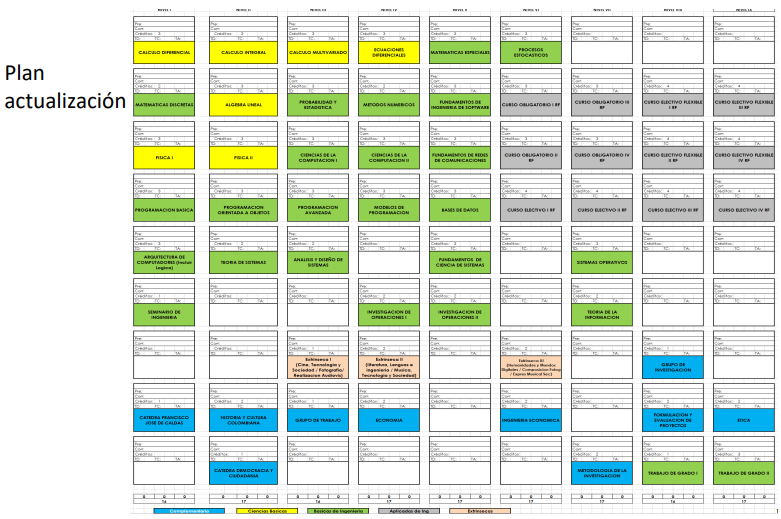
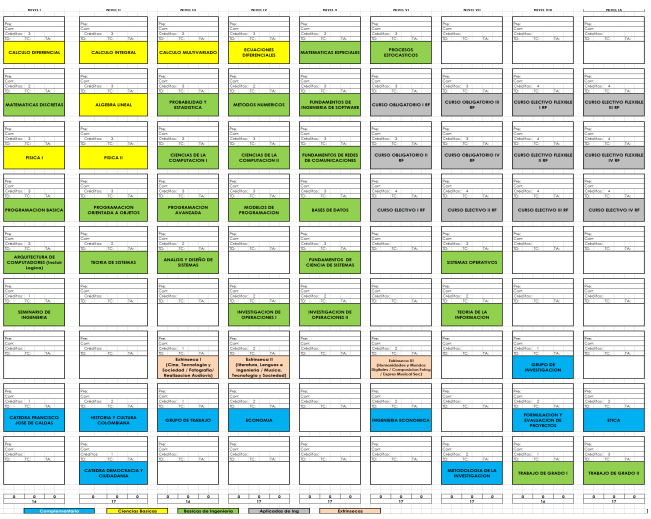
Se añaden las imagenes restantes, y se agrega el blog de Actualizacion de doble programa y articulacion con el posgrado

diff --git a/landing/src/components/InvitationModal.jsx b/landing/src/components/InvitationModal.jsx
@@ -1,13 +1,10 @@
 import { motion, AnimatePresence } from "framer-motion";
 import { CheckArrowIcon } from "../assets/icons/CheckArrowIcon";
 import { CloseIcon } from "../assets/icons/CloseIcon";
-import { TailcastLogo } from "../assets/logos/TailcastLogo";
-import { useEffect } from "react";
 
-export const InvitationModal = ({ setIsOpen, materias }) => {
-
+export const InvitationModal = ({ setIsOpen, materias, enfoque }) => {
   if (!materias || materias.length === 0) {
-    return null;  // No renderiza el modal si no hay materias
+    return null; // No renderiza el modal si no hay materias
   }
 
   const numColumns = 5; // Número de columnas para las materias
@@ -21,54 +18,42 @@ export const InvitationModal = ({ setIsOpen, materias }) => {
   return (
     <AnimatePresence>
       <motion.div
-        initial={{ opacity: 0, zIndex: 50 }}
-        animate={{ opacity: 1, zIndex: 50 }}
+        initial={{ opacity: 0 }}
+        animate={{ opacity: 1 }}
         transition={{ duration: 0.1 }}
         exit={{ opacity: 0 }}
+        className="md:w-screen md:h-screen w-full h-full bg-bgDarkTransparentDarker fixed top-0 left-0 flex z-50 justify-center items-center"
+        onClick={() => setIsOpen(false)}
       >
         <div
-          className="w-full h-full bg-bgDarkTransparentDarker fixed top-0 left-0 flex z-50 justify-center items-center"
-          onClick={() => setIsOpen(false)}
+          className="md:w-screen w-full sm:h-auto sm:w-3/4 lg:w-[1000px] xl:w-[1100px] sm:rounded-2xl bg-bgDarkTransparentLighter main-border-gray-darker py-12 px-8 sm:px-16 backdrop-blur-xl mx-auto z-50"
+          onClick={(e) => e.stopPropagation()}
         >
-          <div
-            className="w-full h-screen sm:h-auto sm:w-3/4 md:w-3/5 lg:w-[1000px] xl:w-[1100px] sm:rounded-2xl bg-bgDarkTransparentLighter main-border-gray-darker py-12 px-8 sm:px-16 backdrop-blur-xl fixed sm:mb-8  mx-auto z-50"
-            onClick={(e) => e.stopPropagation()}
-          >
-            <div className="flex relative">
-              <div className="w-full flex items-center flex-col justify-center pt-24 sm:pt-0">
-                <div className="flex inline lg:hidden justify-start items-center grow basis-0 mb-8 pr-6">
-                  <div className="text-white mr-2 text-8xl">
-                    <TailcastLogo />
-                  </div>
-                  <div className="text-white font-['Inter'] font-bold text-3xl">
-                    Tailcast
-                  </div>
-                </div>
-    
-                <h3 className="mb-7 text-2xl text-primaryText font-bold leading-snug text-center">
-                  Eje de formacion seleccionado 
-                </h3>
-    
-                <div className="flex justify-between gap-4">
-                  {columns.map((column, colIndex) => (
-                    <ul key={colIndex} className="mb-6 text-primaryText mt-12">
-                      {column.map((materia, index) => (
-                        <li key={index} className="mb-4 flex">
-                          <CheckArrowIcon />
-                          <span>{materia}</span>
-                        </li>
-                      ))}
-                    </ul>
-                  ))}
-                </div>
+          <div className="flex relative">
+            <div className="w-full flex items-center flex-col justify-center pt-24 sm:pt-0">
+              <h3 className="mb-7 text-2xl text-primaryText font-bold leading-snug text-center">
+                Eje de formación seleccionado: <span className="text-secondaryColor">{enfoque}</span>
+              </h3>
+
+              <div className="flex justify-between gap-4">
+                {columns.map((column, colIndex) => (
+                  <ul key={colIndex} className="mb-6 text-primaryText mt-12">
+                    {column.map((materia, index) => (
+                      <li key={index} className="mb-4 flex">
+                        <CheckArrowIcon />
+                        <span>{materia}</span>
+                      </li>
+                    ))}
+                  </ul>
+                ))}
               </div>
-    
-              <div
-                className="fixed top-6 right-6 z-50 w-5 h-5 cursor-pointer text-[rgb(255,255,255,0.7)] hover:text-white transition"
-                onClick={() => setIsOpen(false)}
-              >
-                <CloseIcon />
-              </div>
+            </div>
+
+            <div
+              className="md:relative sm:relative absolute top-6 right-6 w-5 h-5 cursor-pointer text-[rgb(255,255,255,0.7)] hover:text-white transition"
+              onClick={() => setIsOpen(false)}
+            >
+              <CloseIcon />
             </div>
           </div>
         </div>
@@ -76,5 +61,3 @@ export const InvitationModal = ({ setIsOpen, materias }) => {
     </AnimatePresence>
   );
 }
-
-  

diff --git a/landing/src/components/Actualizacion.jsx b/landing/src/components/Actualizacion.jsx
@@ -3,23 +3,14 @@ import { motion } from "framer-motion";
 import blog1 from "../assets/images/blog1.png";
 import blog2 from "../assets/images/blog2.png";
 import blog3 from "../assets/images/blog3.png";
+import planactualizacion from "../assets/images/planactualizacion.png"
 
 const blogData = [
   {
-    title: "AI and Machine Learning",
+    title: "Plan Actualizacion",
     subtitle:
-      "Discover insights and trends in the world of data analytics. Delve into how AI and machine learning are revolutionizing industries",
-    image: blog1.src,
-  },
-  {
-    title: "Data-Driven Analytics",
-    subtitle: "Explore the impact of AI and ML on data analytics.",
-    image: blog2.src,
-  },
-  {
-    title: "Real-Time Data Processing",
-    subtitle: "Learn about the importance of processing real-time.",
-    image: blog3.src,
+      "El título obtenido seguirá siendo “Ingeniero de Sistemas”, y los ejes de formación permitirán al estudiante fortalecer un área específica de su formación profesional y articular conocimientos de distintas áreas según sus intereses.",
+    image: planactualizacion.src,
   },
 ];
 
@@ -35,12 +26,11 @@ export const Actualizacion = () => (
       >
         <div className="container px-4 mb-20">
           <div className="max-w-2xl text-center lg:text-left mb-16 mx-auto lg:ml-0 lg:mr-0">
-            <span className="block-subtitle">Our Blog</span>
             <h2 className="mt-6 mb-6 text-4xl lg:text-5xl font-bold font-heading text-primaryText">
-              Latest Insights
+              Actualizaciones
             </h2>
             <p className="mb-6 text-secondaryText">
-              Stay updated with the latest trends and insights in our industry.
+              Aca podras ver detalladamente las actualizaciones propuestas por el programa
             </p>
           </div>
           <div className="flex 2xl:w-[1200px] lg:w-[1000px] xl:w-[1150px] flex-wrap -mx-4 items-start h-auto sm:h-[30rem] lg:h-[31rem]  xl:h-[35rem]">
@@ -50,7 +40,7 @@ export const Actualizacion = () => (
                   <img
                     src={blogData[0].image}
                     alt={blogData[0].title}
-                    className="rounded-3xl mb-6  w-full"
+                    className="rounded-3xl mb-6  w-2/3"
                     aria-label={blogData[0].title}
                   />
                   <h3 className="mb-4 text-2xl font-bold font-heading text-primaryText">
@@ -61,31 +51,6 @@ export const Actualizacion = () => (
                   </p>
                 </div>
               </a>
-            </div>
-            <div className="hidden sm:flex mx-auto lg:ml-0 lg:mr-0 w-11/12 sm:w-4/5 lg:w-1/2 xl:w-2/5 px-4  flex-col justify-between h-full">
-              {blogData.slice(1).map((post, index) => (
-                <a
-                  href="/blog/article"
-                  key={`${post.title}-${index}`}
-                  className=" flex  gap-4 p-10 bg-bgDark3 rounded-3xl  min-h-1/2 h-1/2 max-h-[47%]
-                  hover:bg-bgDark3Hover transition cursor-pointer"
-                >
-                  <div className="pt-2">
-                    <h3 className="mb-4 text-xl font-bold font-heading text-primaryText">
-                      {post.title}
-                    </h3>
-                    <p className="text-secondaryText leading-loose">
-                      {post.subtitle}
-                    </p>
-                  </div>
-                  <img
-                    src={post.image}
-                    alt={post.title}
-                    className="rounded-3xl mb-6 w-[9rem] h-[9rem] lg:w-auto lg:h-auto xl:w-full"
-                    aria-label={post.title}
-                  />
-                </a>
-              ))}
             </div>
           </div>
         </div>

diff --git a/landing/src/components/Motivos.jsx b/landing/src/components/Motivos.jsx
@@ -4,6 +4,10 @@ import feature1 from "../assets/images/feature1.jpg";
 import feature2 from "../assets/images/feature2.jpg";
 import feature3 from "../assets/images/feature3.jpg";
 import feature4 from "../assets/images/feature4.jpg";
+import crecimientopersonal from "../assets/images/crecimientopersonal.png";
+import habilidadespracticas from "../assets/images/habilidadespracticas.png";
+import oportunidadeslaborales from "../assets/images/oportunidadeslaborales.png";
+import areasconocimiento from "../assets/images/areasconocimiento.png";
 import { CheckArrowIcon } from "../assets/icons/CheckArrowIcon";
 
 export const Motivos = () => {
@@ -53,36 +57,36 @@ export const Motivos = () => {
             <div className="mb-8 lg:mb-0 w-full sm:w-1/2 px-2 lg:px-0">
               <div className="mb-4 py-3 pl-3 pr-2 rounded">
                 <img
-                  src={feature1.src}
-                  alt="Feature image 1"
+                  src={crecimientopersonal.src}
+                  alt="Crecimiento personal"
                   className="rounded-xl  main-border-gray mx-auto sm:mx-unset"
-                  aria-label="Feature image 1"
+                  aria-label="Crecimiento personal"
                 />
               </div>
               <div className="py-3 pl-3 pr-2 rounded ">
                 <img
-                  src={feature2.src}
-                  alt="Feature image 2"
+                  src={habilidadespracticas.src}
+                  alt="Habilidades practicas"
                   className="rounded-xl  main-border-gray mx-auto sm:mx-unset"
-                  aria-label="Feature image 2"
+                  aria-label="Habilidades practicas"
                 />
               </div>
             </div>
             <div className="w-1/2 lg:mt-20  pt-12 lg:pt-0 px-2 hidden sm:inline-block">
               <div className="mb-4 py-3 pl-3 pr-2 rounded-lg ">
                 <img
-                  src={feature3.src}
-                  alt="Feature image 3"
+                  src={oportunidadeslaborales.src}
+                  alt="Oportunidades laborales"
                   className="rounded-xl  main-border-gray"
-                  aria-label="Feature image 3"
+                  aria-label="Oportunidades laborales"
                 />
               </div>
               <div className="py-3 pl-3 pr-2 rounded-lg ">
                 <img
-                  src={feature4.src}
-                  alt="Feature image 4"
+                  src={areasconocimiento.src}
+                  alt="Areas conocimiento"
                   className="rounded-xl  main-border-gray"
-                  aria-label="Feature image 4"
+                  aria-label="Areas conocimiento"
                 />
               </div>
             </div>

diff --git a/landing/src/components/Ejes.jsx b/landing/src/components/Ejes.jsx
@@ -3,10 +3,10 @@ import { useState } from "react";
 
 import { InvitationModal } from "./InvitationModal";
 
-
-export const FeaturesDiagonal = () => {
+export const Ejes = () => {
   const [isModalOpen, setIsModalOpen] = useState(false);
   const [materias, setMaterias] = useState([]);
+  const [enfoque, setEnfoque] = useState("");
 
   // Datos de las materias para cada enfoque
   const materiasPorEnfoque = {
@@ -66,7 +66,7 @@ export const FeaturesDiagonal = () => {
       "Gestión de la Innovación en TI",
       "Gestión de la Calidad en Proyectos TI",
     ],
-    "Cibernética e Inteligencia Artificial (Ciencia de Sistemas)": [
+    "Cibernética e Inteligencia Artificial": [
       "Inteligencia Artificial I",
       "Inteligencia Artificial II",
       "Cibernética I",
@@ -87,13 +87,13 @@ export const FeaturesDiagonal = () => {
   };
 
   const handleButtonClick = (enfoque) => {
-    console.log(isModalOpen, "JASKDJALKSD NMMS", enfoque);
     setIsModalOpen((prev) => {
       console.log(prev);
       return prev;
     });
     setIsModalOpen(true);
     setMaterias(materiasPorEnfoque[enfoque]);
+    setEnfoque(enfoque);
   };
 
   return (
@@ -174,16 +174,16 @@ export const FeaturesDiagonal = () => {
                 aria-label="Live demo"
                 onClick={() =>
                   handleButtonClick(
-                    "Cibernética e Inteligencia Artificial (Ciencia de Sistemas)"
+                    "Cibernética e Inteligencia Artificial"
                   )
                 }
               >
-                Cibernética e Inteligencia Artificial (Ciencia de Sistemas)
+                Cibernética e Inteligencia Artificial
               </button>
             </div>
 
             {isModalOpen && (
-              <InvitationModal setIsOpen={setIsModalOpen} materias={materias} />
+              <InvitationModal setIsOpen={setIsModalOpen} materias={materias} enfoque={enfoque} />
             )}
           </div>
         </div>

diff --git a/landing/src/components/Motivos2.jsx b/landing/src/components/Motivos2.jsx
@@ -3,6 +3,8 @@ import React from "react";
 
 import feature5 from "../assets/images/feature5.jpg";
 import feature6 from "../assets/images/feature6.jpg";
+import certificado from "../assets/images/certificado.png";
+import planeacion from "../assets/images/planeacion.png";
 import { CheckArrowIcon } from "../assets/icons/CheckArrowIcon";
 
 export const Motivos2 = () => (
@@ -18,15 +20,15 @@ export const Motivos2 = () => (
           <div className="mb-8 lg:mb-0 w-full px-2 lg:pl-16 flex flex-col justify-center md:pl-8">
             <div className="mb-4 py-3 md:pl-3 md:pr-20 lg:pr-12 rounded">
               <img
-                src={feature5.src}
-                alt="Feature image 5"
+                src={certificado.src}
+                alt="Certificado"
                 className="rounded-xl  main-border-gray"
               />
             </div>
             <div className="py-3 md:pl-20 lg:pl-12 md:pr-2 rounded ">
               <img
-                src={feature6.src}
-                alt="Feature image 6"
+                src={planeacion.src}
+                alt="Planeacion"
                 className="rounded-xl  main-border-gray"
               />
             </div>

diff --git a/landing/src/components/Hero.jsx b/landing/src/components/Hero.jsx
@@ -30,8 +30,7 @@ export const Hero = () => {
           transition={{ duration: 0.5, delay: 0.05 }}
         >
           <div className="text-5xl sm:text-6xl lg:text-7xl xl:text-7xl font-bold tracking-wide  text-primaryText  px-8 sm:px-8 md:px-20 lg:px-4">
-            <h1 className="inline md:hidden">Analytics</h1>
-            <h1 className="hidden md:inline">Ingenieria de Sistemas</h1>
+            <h1>Ingenieria de Sistemas</h1>
           </div>
         </motion.div>
         <motion.div

diff --git a/landing/src/components/Navbar.jsx b/landing/src/components/Navbar.jsx
@@ -93,14 +93,6 @@ export const Navbar = () => {
                   {label}
                 </a>
               ))}
-              <a
-                className="outlined-button pl-6 pr-8 pt-2 pb-2  flex"
-                href="https://github.com/matt765/Tidestream"
-                target="_blank"
-              >
-                <GithubIcon />
-                Source code
-              </a>
             </div>
           </motion.div>
         )}
